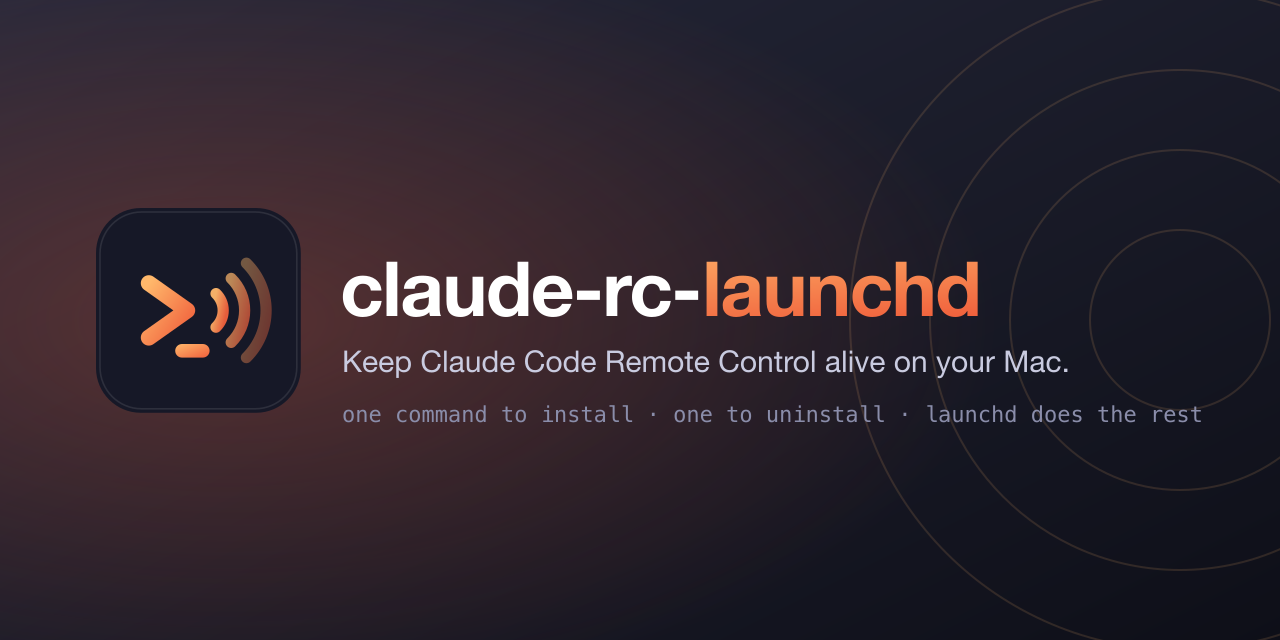
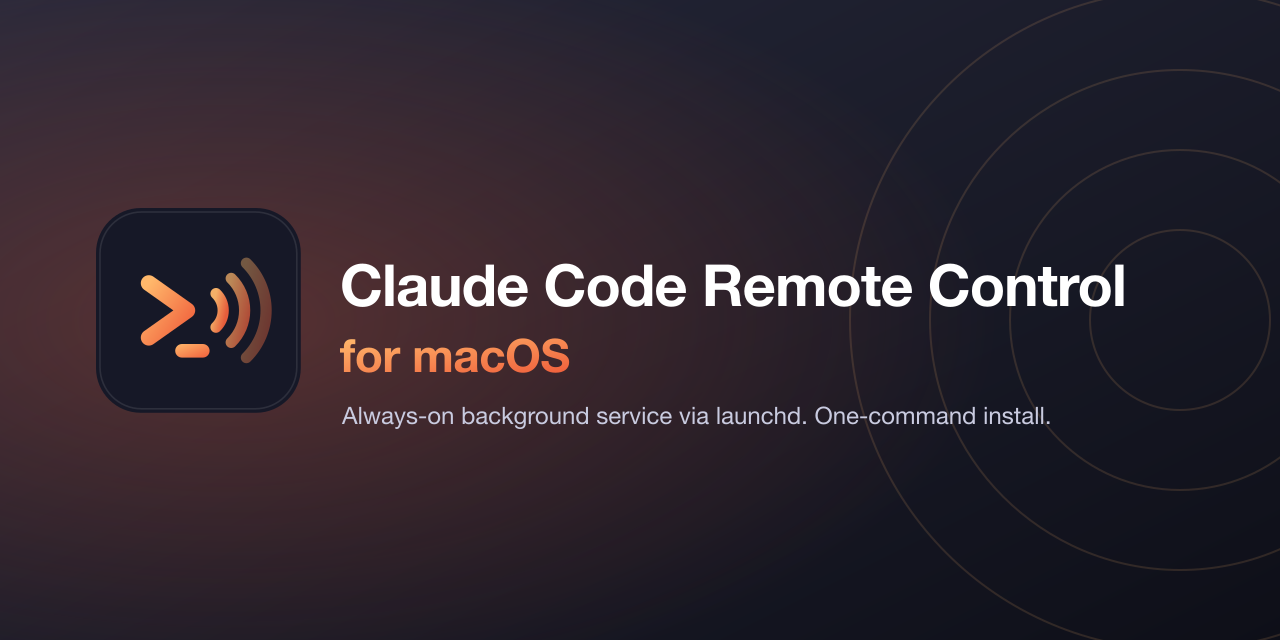
Rename to claude-code-remote-control-macos; split Chinese README
Descriptive name for search: Claude Code Remote Control for macOS.
README.zh-CN.md holds the full Chinese version; language links on top.

Claude-Session: https://claude.ai/code/session_01GbKDyQkUXkyyJk4cvdwqBC

Changed region(s): [[0.25, 0.4062, 0.875, 0.5], [0.25, 0.625, 0.9375, 0.6875], [0.25, 0.5312, 0.8438, 0.5938]]

diff --git a/README.md b/README.md
@@ -1,17 +1,19 @@
-<p align="center"><img src="assets/banner.svg" alt="claude-rc-launchd: keep Claude Code Remote Control alive on your Mac" width="100%"></p>
+<p align="center"><b>English</b> · <a href="README.zh-CN.md">简体中文</a></p>
+
+<p align="center"><img src="assets/banner.svg" alt="Claude Code Remote Control for macOS: always-on background service via launchd" width="100%"></p>
 
 <p align="center">
   <a href="LICENSE"><img alt="License: MIT" src="https://img.shields.io/badge/license-MIT-green.svg"></a>
-  <a href="https://github.com/sicaboy/claude-rc-launchd/actions/workflows/ci.yml"><img alt="CI" src="https://github.com/sicaboy/claude-rc-launchd/actions/workflows/ci.yml/badge.svg"></a>
+  <a href="https://github.com/sicaboy/claude-code-remote-control-macos/actions/workflows/ci.yml"><img alt="CI" src="https://github.com/sicaboy/claude-code-remote-control-macos/actions/workflows/ci.yml/badge.svg"></a>
   <img alt="Platform: macOS" src="https://img.shields.io/badge/platform-macOS-lightgrey.svg">
   <img alt="Shell: bash" src="https://img.shields.io/badge/shell-bash-4EAA25.svg">
   <img alt="Open source" src="https://img.shields.io/badge/open%20source-%E2%9D%A4-orange.svg">
-  <a href="https://github.com/sicaboy/claude-rc-launchd/pulls"><img alt="PRs welcome" src="https://img.shields.io/badge/PRs-welcome-brightgreen.svg"></a>
+  <a href="https://github.com/sicaboy/claude-code-remote-control-macos/pulls"><img alt="PRs welcome" src="https://img.shields.io/badge/PRs-welcome-brightgreen.svg"></a>
 </p>
 
-# claude-rc-launchd
+# Claude Code Remote Control for macOS
 
-Run [Claude Code](https://code.claude.com) **Remote Control** as a macOS background service. Your Mac shows up as a **device card** in the Claude app's Code tab (and on claude.ai/code), so you can start new, independent sessions on it from your phone at any time, without leaving a terminal open.
+Run [Claude Code](https://code.claude.com) **Remote Control** (`claude remote-control`) as an always-on macOS background service (launchd LaunchAgent). Your Mac shows up as a **device card** in the Claude app's Code tab (and on claude.ai/code), so you can start new, independent sessions on it from your phone at any time, without leaving a terminal open.
 
 It is a small LaunchAgent plus a supervisor script. It starts at login, restarts the server when it exits, and refuses to flap.
 
@@ -20,13 +22,13 @@ It is a small LaunchAgent plus a supervisor script. It starts at login, restarts
 ## Install (one command)
 
 ```bash
-curl -fsSL https://raw.githubusercontent.com/sicaboy/claude-rc-launchd/main/install.sh | bash -s -- --workdir ~/projects --name "My Mac"
+curl -fsSL https://raw.githubusercontent.com/sicaboy/claude-code-remote-control-macos/main/install.sh | bash -s -- --workdir ~/projects --name "My Mac"
 ```
 
 or from a clone:
 
 ```bash
-git clone https://github.com/sicaboy/claude-rc-launchd && cd claude-rc-launchd
+git clone https://github.com/sicaboy/claude-code-remote-control-macos && cd claude-code-remote-control-macos
 ./install.sh --workdir ~/projects --name "My Mac"
 ```
 
@@ -45,7 +47,7 @@ Re-running `install.sh` with new options updates the installation in place.
 
 ```bash
 ./install.sh status        # job state, config, last log lines
-tail -f ~/.local/share/claude-rc-launchd/server.log
+tail -f ~/.local/share/claude-code-remote-control/server.log
 ```
 
 ## Uninstall (one command)
@@ -54,14 +56,14 @@ tail -f ~/.local/share/claude-rc-launchd/server.log
 ./uninstall.sh                       # remove job, script, config and logs
 ./uninstall.sh --keep-logs           # keep the logs
 # without a clone:
-curl -fsSL https://raw.githubusercontent.com/sicaboy/claude-rc-launchd/main/install.sh | bash -s -- uninstall
+curl -fsSL https://raw.githubusercontent.com/sicaboy/claude-code-remote-control-macos/main/install.sh | bash -s -- uninstall
 ```
 
 Uninstalling stops the server and the sessions it is serving.
 
 ## What it does
 
-`~/Library/LaunchAgents/io.github.sicaboy.claude-rc-launchd.plist` runs `claude-rc-server.sh` with `RunAtLoad` and `KeepAlive`. Each cycle the script:
+`~/Library/LaunchAgents/io.github.sicaboy.claude-code-remote-control.plist` runs `claude-code-remote-control.sh` with `RunAtLoad` and `KeepAlive`. Each cycle the script:
 
 1. waits for the network (up to 2 min);
 2. checks `claude auth status`; if signed out it logs the fix and holds 5 min instead of hammering;
@@ -72,7 +74,7 @@ Uninstalling stops the server and the sessions it is serving.
 
 It scrubs inherited `CLAUDE*`, `ANTHROPIC_API_KEY` and `ANTHROPIC_AUTH_TOKEN` variables first, so it never picks up another session's identity.
 
-Everything lives in `~/.local/share/claude-rc-launchd/`. In System Settings > General > Login Items & Extensions the item appears as `claude-rc-server.sh` (not a bare `bash`).
+Everything lives in `~/.local/share/claude-code-remote-control/`. In System Settings > General > Login Items & Extensions the item appears as `claude-code-remote-control.sh` (not a bare `bash`).
 
 ## Limits and notes
 
@@ -86,16 +88,8 @@ Everything lives in `~/.local/share/claude-rc-launchd/`. In System Settings > Ge
 
 ```bash
 bash test/test.sh      # smoke tests against a fake `claude`, no network
-shellcheck -x -S warning install.sh scripts/claude-rc-server.sh test/test.sh
+shellcheck -x -S warning install.sh scripts/claude-code-remote-control.sh test/test.sh
 ```
-
-## 中文简介
-
-把 Claude Code 的 Remote Control（`claude remote-control`）做成 macOS 后台服务：登录后自动启动、退出自动重启，手机上的 Claude app「Code」页就会出现这台 Mac 的设备卡片，可随时新建独立会话。
-
-- 安装：`curl -fsSL https://raw.githubusercontent.com/sicaboy/claude-rc-launchd/main/install.sh | bash -s -- --workdir ~/projects --name "我的 Mac"`
-- 卸载：`./uninstall.sh`，或在上面的命令后改用 `bash -s -- uninstall`
-- 前提：已 `claude auth login`；工作目录先运行一次 `claude` 并接受信任提示。
 
 ## License
 

diff --git a/README.zh-CN.md b/README.zh-CN.md
@@ -1,0 +1,96 @@
+<p align="center"><a href="README.md">English</a> · <b>简体中文</b></p>
+
+<p align="center"><img src="assets/banner.svg" alt="Claude Code Remote Control for macOS：基于 launchd 的常驻后台服务" width="100%"></p>
+
+<p align="center">
+  <a href="LICENSE"><img alt="License: MIT" src="https://img.shields.io/badge/license-MIT-green.svg"></a>
+  <a href="https://github.com/sicaboy/claude-code-remote-control-macos/actions/workflows/ci.yml"><img alt="CI" src="https://github.com/sicaboy/claude-code-remote-control-macos/actions/workflows/ci.yml/badge.svg"></a>
+  <img alt="Platform: macOS" src="https://img.shields.io/badge/platform-macOS-lightgrey.svg">
+  <img alt="Shell: bash" src="https://img.shields.io/badge/shell-bash-4EAA25.svg">
+  <img alt="Open source" src="https://img.shields.io/badge/open%20source-%E2%9D%A4-orange.svg">
+  <a href="https://github.com/sicaboy/claude-code-remote-control-macos/pulls"><img alt="PRs welcome" src="https://img.shields.io/badge/PRs-welcome-brightgreen.svg"></a>
+</p>
+
+# Claude Code Remote Control for macOS
+
+把 [Claude Code](https://code.claude.com) 的 **Remote Control**（`claude remote-control`）做成常驻的 macOS 后台服务（launchd LaunchAgent）。这台 Mac 会作为**设备卡片**出现在 Claude app 的 Code 页（以及 claude.ai/code），你可以随时在手机上新建独立会话，不需要一直开着终端。
+
+它由一个 LaunchAgent 和一个监督脚本组成：登录后自动启动，服务退出时自动重启，并且不会反复抖动重启。
+
+> 非官方社区项目，与 Anthropic 无关联，也未获其认可。
+
+## 安装（一条命令）
+
+```bash
+curl -fsSL https://raw.githubusercontent.com/sicaboy/claude-code-remote-control-macos/main/install.sh | bash -s -- --workdir ~/projects --name "我的 Mac"
+```
+
+或者克隆后安装：
+
+```bash
+git clone https://github.com/sicaboy/claude-code-remote-control-macos && cd claude-code-remote-control-macos
+./install.sh --workdir ~/projects --name "我的 Mac"
+```
+
+| 选项 | 默认值 | 含义 |
+| --- | --- | --- |
+| `--workdir DIR` | `~/claude-rc` | 会话启动所在的目录。必须已被 Claude Code **信任**（见下），且不能是主目录。 |
+| `--name NAME` | 这台 Mac 的名称 | App 里显示的设备名 |
+| `--capacity N` | `10` | 同时运行的会话上限。空闲会话也占名额，满了之后新会话会悄悄没有回应。 |
+| `--spawn MODE` | `same-dir` | `same-dir`（共享文件）或 `worktree`（需要 git 仓库） |
+
+带着新选项重新运行 `install.sh` 会原地更新安装。
+
+**安装前：**先登录（`claude auth login`，需要 claude.ai 账号，API key 不支持 Remote Control），并让 Claude Code 信任工作目录一次：`cd ~/projects && claude`，接受提示。安装器会检查这两项，并告诉你怎么处理。
+
+## 日常使用
+
+```bash
+./install.sh status        # 任务状态、配置、最近的日志
+tail -f ~/.local/share/claude-code-remote-control/server.log
+```
+
+## 卸载（一条命令）
+
+```bash
+./uninstall.sh                       # 删除任务、脚本、配置和日志
+./uninstall.sh --keep-logs           # 保留日志
+# 没有克隆仓库时：
+curl -fsSL https://raw.githubusercontent.com/sicaboy/claude-code-remote-control-macos/main/install.sh | bash -s -- uninstall
+```
+
+卸载会停止服务，以及它正在服务的会话。
+
+## 工作原理
+
+`~/Library/LaunchAgents/io.github.sicaboy.claude-code-remote-control.plist` 以 `RunAtLoad` 和 `KeepAlive` 运行 `claude-code-remote-control.sh`。每个周期脚本会：
+
+1. 等待网络（最多 2 分钟）；
+2. 检查 `claude auth status`；若已登出，记录修复方法并暂停 5 分钟，不会反复重试；
+3. 1 小时内启动达到 3 次后退避（每多一次加 5 分钟，上限 30 分钟），避免服务抖动，在手机上留下幽灵设备；
+4. 在工作目录运行 `claude remote-control --spawn <模式> --capacity <n> --name <名称>`；
+5. 150 秒内没有建立 HTTPS 连接就视为卡住（例如看不见的首次运行提示），并重启；
+6. 每 5 分钟写一条心跳日志；服务退出时记录退出码和最后几行输出。
+
+脚本会先清除继承来的 `CLAUDE*`、`ANTHROPIC_API_KEY` 和 `ANTHROPIC_AUTH_TOKEN` 环境变量，因此不会沿用其他会话的身份。
+
+所有文件都在 `~/.local/share/claude-code-remote-control/`。在「系统设置 > 通用 > 登录项与扩展」里，它显示为 `claude-code-remote-control.sh`，而不是一个叫 `bash` 的条目。
+
+## 限制与说明
+
+- **睡眠。**Mac 休眠时无法连接。保持唤醒（接电源、`caffeinate -s`、节能设置）由你自己负责，本工具不改电源设置。
+- **重启后需要登录。**LaunchAgent 运行在已登录的会话里；开了 FileVault 又没有自动登录时，重启后需要先登录一次。
+- **登录过期。**到期后用 `claude auth login` 续期。日志在每次启动时会记录到期日。
+- **重启会结束会话。**重启服务（包括重新运行 `install.sh` 或卸载）会停止它正在服务的会话，对话记录仍保留在磁盘上。
+- 它依赖当前 Claude Code 版本中 `claude remote-control` 的行为，参数以后可能变化。
+
+## 开发
+
+```bash
+bash test/test.sh      # 用假的 `claude` 做冒烟测试，不联网
+shellcheck -x -S warning install.sh scripts/claude-code-remote-control.sh test/test.sh
+```
+
+## 许可证
+
+[MIT](LICENSE)
